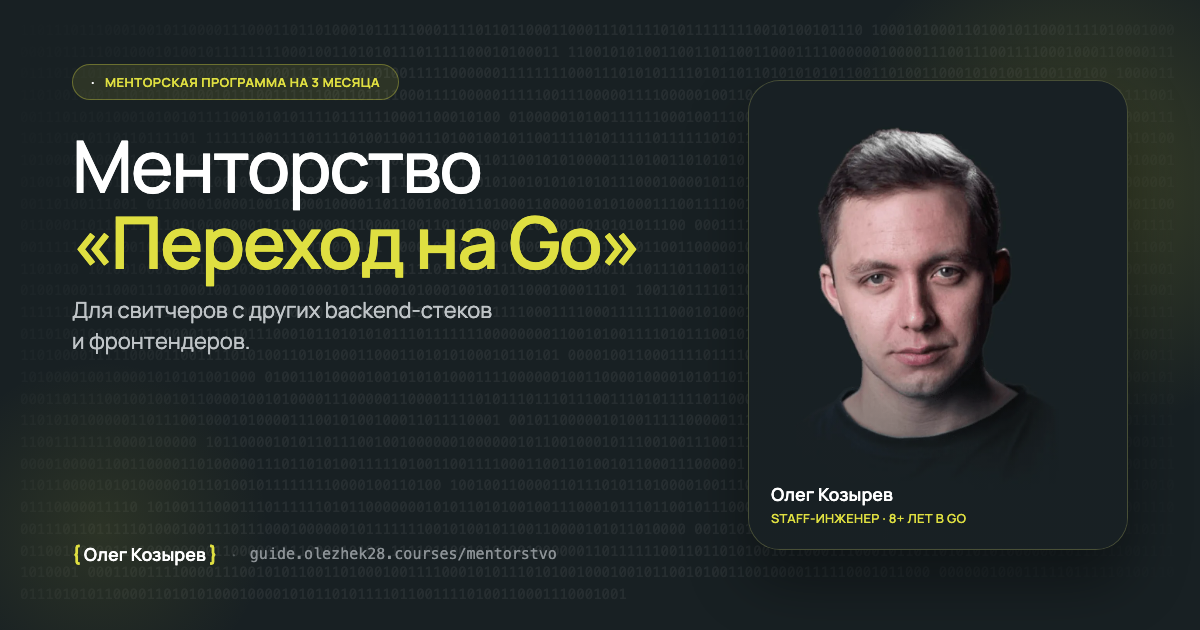
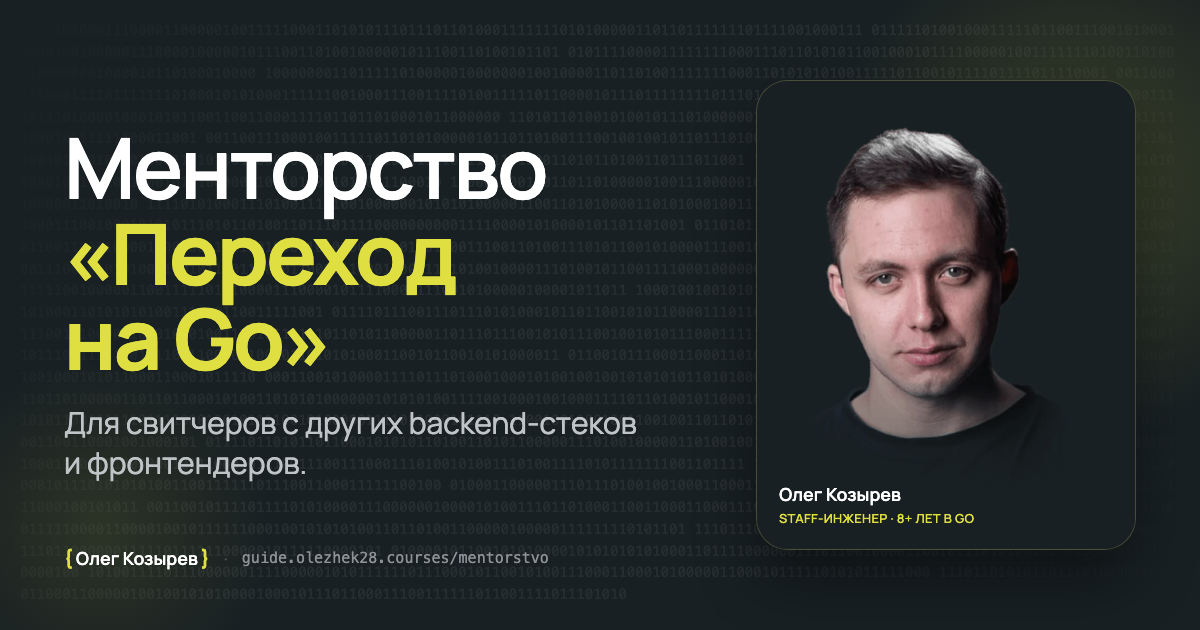
OG-image без eyebrow + разделитель в тарифах + рассрочка короче
- og-image.png перегенерирована: убран eyebrow «Менторская программа на
  3 месяца», заголовок и подзаголовок сделаны крупнее (84px / 30px),
  чтобы лучше читалось в карточке каталога
- Тарифы: добавлен разделитель между блоком цены и фразой «При полной
  оплате...» — теперь визуально 3 секции (цена / условия / итог)
- Рассрочка: убрал «на 12 месяцев» — стало «банковскую от X ₽/месяц.»,
  короче и читабельнее

diff --git a/mentorstvo/index.html b/mentorstvo/index.html
@@ -1320,16 +1320,16 @@
         <div class="tier tier--dark fade-up">
           <div class="tier__label">Тариф 1 · Основной</div>
           <div class="tier__price" style="font-size:54px;line-height:1.1;margin-bottom:24px"><b>180 000 ₽</b></div>
-          <div class="tier__format" style="white-space:nowrap">При полной оплате сразу — скидка&nbsp;10 000 ₽.</div>
-          <div class="tier__format" style="margin-top:8px">Можно в&nbsp;рассрочку: внутреннюю на&nbsp;3 месяца или банковскую на&nbsp;12 месяцев от&nbsp;15 000 ₽/месяц.</div>
+          <div class="tier__format" style="white-space:nowrap;margin-top:14px;padding-top:14px;border-top:1px solid rgba(255,255,255,.06)">При полной оплате сразу — скидка&nbsp;10 000 ₽.</div>
+          <div class="tier__format" style="margin-top:8px">Можно в&nbsp;рассрочку: внутреннюю на&nbsp;3 месяца или банковскую от&nbsp;15 000 ₽/месяц.</div>
           <div class="tier__note">После оффера&nbsp;— никаких дополнительных выплат.</div>
         </div>
         <div class="tier tier--light fade-up">
           <div class="tier__label">Тариф 2 · С&nbsp;постоплатой</div>
           <div class="tier__price"><b>110 000 ₽</b></div>
           <div class="tier__format" style="font-weight:600;color:var(--accent-ink)">+ 50% от&nbsp;первых двух зарплат</div>
-          <div class="tier__format" style="margin-top:14px;white-space:nowrap">При полной оплате предоплаты сразу — скидка&nbsp;10 000 ₽.</div>
-          <div class="tier__format" style="margin-top:8px">Можно в&nbsp;рассрочку: внутреннюю на&nbsp;3 месяца или банковскую на&nbsp;12 месяцев от&nbsp;9 166 ₽/месяц.</div>
+          <div class="tier__format" style="white-space:nowrap;margin-top:14px;padding-top:14px;border-top:1px solid rgba(0,0,0,.08)">При полной оплате предоплаты сразу — скидка&nbsp;10 000 ₽.</div>
+          <div class="tier__format" style="margin-top:8px">Можно в&nbsp;рассрочку: внутреннюю на&nbsp;3 месяца или банковскую от&nbsp;9 166 ₽/месяц.</div>
           <div class="tier__note">Постоплата&nbsp;— после первой зарплаты на&nbsp;новой работе.</div>
         </div>
       </div>
